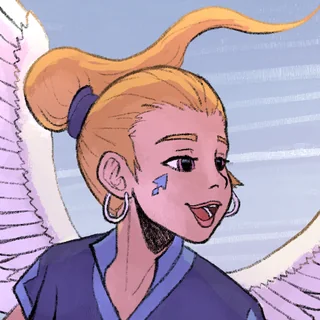
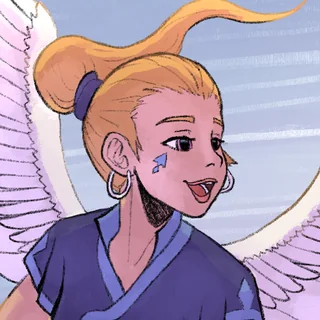
Pieces that fill their square, and travel to the next one
Four small things, all about the board feeling like a board.

A card is 100% of its tile instead of 88%. The ring of tile showing
round every card made it read as pictures sitting on a grid rather
than a grid made of pictures.

A card that changes square now travels there. Changing grid cell is
instant and unreadable, so the board measures where every unit was
before the render and where it is after, puts each one back where it
started and lets it fly -- ease-out only, because a piece that starts
fast and settles reads as a move while one that starts slow reads as
a drag. An exchange already owns the element's transform mid-animation,
so a slot that is lunging or recoiling is left alone.

The card beside the board leans by exactly the angles the little card
under the pointer does. The two angles are written to the arena as
well as to the card, straight to the DOM rather than through state --
this fires on every mouse move and re-rendering the board sixty times
a second to tilt a card is not a trade worth making.

And placing a unit during deployment now ends the placing. Leaving it
selected left your whole half lit up as though you still had something
in your hand, which stops being true the moment you put it down.

Also here: Jared's own crops for Himanta and Lumea, which frame both
of them better than the ones I cut.

Claude-Session: https://claude.ai/code/session_0193MWujxsDaLYrBaynm9KZG

diff --git a/src/components/Board.tsx b/src/components/Board.tsx
@@ -1,4 +1,4 @@
-import { useEffect, useMemo, useRef, useState } from 'react'
+import { useEffect, useLayoutEffect, useMemo, useRef, useState } from 'react'
 import type { MatchState, Obstacle, Side, Unit } from '../lib/types'
 import { artUrl, faceUrl } from '../lib/art'
 import { deployTiles, key, ownSide, reachable, targetsFor, willCounter } from '../lib/rules'
@@ -57,6 +57,34 @@ export function Board({
   const at = (p: { x: number; y: number }) =>
     ({ gridColumn: p.x + 1, gridRow: p.y + 1 }) as React.CSSProperties
 
+  // Where every unit was standing last time we drew. A card changes square by
+  // changing which grid cell it is in, which is instant and unreadable, so we
+  // measure before and after and play the difference back: put the card where
+  // it used to be, then let it travel. Ease-out only -- a piece that starts
+  // fast and settles reads as a move, one that starts slow reads as a drag.
+  const seats = useRef(new Map<string, DOMRect>())
+  const slots = useRef(new Map<string, HTMLDivElement>())
+  useLayoutEffect(() => {
+    for (const [id, el] of slots.current) {
+      const to = el.getBoundingClientRect()
+      const from = seats.current.get(id)
+      seats.current.set(id, to)
+      if (!from) continue
+      const dx = from.left - to.left
+      const dy = from.top - to.top
+      if (Math.abs(dx) < 0.5 && Math.abs(dy) < 0.5) continue
+      // An exchange already owns this element's transform; do not fight it.
+      if (el.className.includes('fx-')) continue
+      el.animate(
+        [{ transform: `translate(${dx}px, ${dy}px)` }, { transform: 'translate(0px, 0px)' }],
+        { duration: 260, easing: 'cubic-bezier(0.22, 1, 0.36, 1)' },
+      )
+    }
+    for (const id of [...seats.current.keys()]) {
+      if (!slots.current.has(id)) seats.current.delete(id)
+    }
+  })
+
   // The board a moment ago. A killed unit is gone from `state.units` by the
   // time we hear about it, so the only place its last position still exists
   // is the previous render's copy.
@@ -114,7 +142,10 @@ export function Board({
   function clickTile(x: number, y: number) {
     if (watching(mySide)) return
     if (deploying) {
-      if (selected && mine && litTiles.has(key(x, y))) onDeploy(selected.id, x, y)
+      // Placing one ends the placing. Leaving the unit selected left its whole
+      // half lit up as if you still had something in your hand, which is only
+      // true until you put it down.
+      if (selected && mine && litTiles.has(key(x, y))) { onDeploy(selected.id, x, y); onSelect(null) }
       else onSelect(null)
       return
     }
@@ -126,8 +157,10 @@ export function Board({
     if (watching(mySide)) return
     if (deploying) {
       // Dropping one of yours onto another of yours swaps the pair.
-      if (selected && mine && u.owner === mySide && u.id !== selected.id) onDeploy(selected.id, u.x, u.y)
-      else onSelect(u.id === selectedId ? null : u.id)
+      if (selected && mine && u.owner === mySide && u.id !== selected.id) {
+        onDeploy(selected.id, u.x, u.y)
+        onSelect(null)
+      } else onSelect(u.id === selectedId ? null : u.id)
       return
     }
     if (targets.has(u.id)) onAttack(u.id)
@@ -223,6 +256,7 @@ export function Board({
                   : undefined
             }
             onHover={(over) => onHover(over ? u.id : null)}
+            slotRef={(el) => { if (el) slots.current.set(u.id, el); else slots.current.delete(u.id) }}
             onClick={(e) => { e.stopPropagation(); clickUnit(u) }}
           />
         )
@@ -328,6 +362,7 @@ function GhostCard({ unit }: { unit: Unit }) {
 
 function UnitCard({
   unit, slot, yours, watching, selected, target, counters, slotClass, slotVars, onClick, onHover,
+  slotRef,
 }: {
   unit: Unit
   slot: React.CSSProperties
@@ -340,22 +375,36 @@ function UnitCard({
   slotVars?: React.CSSProperties
   onClick: (e: React.MouseEvent) => void
   onHover: (over: boolean) => void
+  slotRef: (el: HTMLDivElement | null) => void
 }) {
   const hpPct = Math.max(0, Math.min(100, (unit.hp / unit.maxHp) * 100))
 
   // The card leans toward the pointer. The angles go to CSS variables rather
   // than straight to `transform`, so the lean composes with the hover scale
   // instead of overwriting it.
+  // The same two angles go on the card under the pointer and on the arena, so
+  // the big card opening beside the board leans by exactly as much as the
+  // little one you are pointing at. Written straight to the DOM rather than
+  // held in state: this fires on every mouse move, and re-rendering the board
+  // sixty times a second to tilt a card is not a trade worth making.
   function lean(e: React.MouseEvent<HTMLDivElement>) {
     const r = e.currentTarget.getBoundingClientRect()
     const px = (e.clientX - r.left) / r.width - 0.5
     const py = (e.clientY - r.top) / r.height - 0.5
-    e.currentTarget.style.setProperty('--ry', `${(px * MAX_TILT * 2).toFixed(1)}deg`)
-    e.currentTarget.style.setProperty('--rx', `${(-py * MAX_TILT * 2).toFixed(1)}deg`)
+    const ry = `${(px * MAX_TILT * 2).toFixed(1)}deg`
+    const rx = `${(-py * MAX_TILT * 2).toFixed(1)}deg`
+    e.currentTarget.style.setProperty('--ry', ry)
+    e.currentTarget.style.setProperty('--rx', rx)
+    const arena = e.currentTarget.closest('.arena') as HTMLElement | null
+    arena?.style.setProperty('--bry', ry)
+    arena?.style.setProperty('--brx', rx)
   }
   function settle(e: React.MouseEvent<HTMLDivElement>) {
     e.currentTarget.style.setProperty('--ry', '0deg')
     e.currentTarget.style.setProperty('--rx', '0deg')
+    const arena = e.currentTarget.closest('.arena') as HTMLElement | null
+    arena?.style.setProperty('--bry', '0deg')
+    arena?.style.setProperty('--brx', '0deg')
   }
 
   const portrait = unit.art
@@ -363,7 +412,7 @@ function UnitCard({
     : <span className="unit-initial">{unit.name[0]}</span>
 
   return (
-    <div className={`unit-slot ${slotClass}`.trim()} style={{ ...slot, ...slotVars }}>
+    <div ref={slotRef} className={`unit-slot ${slotClass}`.trim()} style={{ ...slot, ...slotVars }}>
       <div
         className={[
           'unit',

diff --git a/src/styles.css b/src/styles.css
@@ -695,7 +695,7 @@ form .btn.primary { width: 100%; margin-top: 10px; }
    up, which a tree is not. */
 .tree {
   position: relative;
-  width: 88%; aspect-ratio: 1;
+  width: 100%; aspect-ratio: 1;
   container-type: inline-size;
   display: grid; place-items: center;
   border-radius: 8%;
@@ -752,9 +752,12 @@ form .btn.primary { width: 100%; margin-top: 10px; }
   .unit-slot:hover { z-index: 10; }
 }
 
+/* A piece owns its whole square. At 88% the tile showed as a ring around
+   every card, which made the board read as pictures sitting on a grid rather
+   than as a grid made of pictures. */
 .unit {
   position: relative;
-  width: 88%; aspect-ratio: 1;
+  width: 100%; aspect-ratio: 1;
   container-type: inline-size;  /* everything INSIDE is sized against this */
   display: grid;
   /* NOT cqw: an element cannot query itself, so cqw here would resolve
@@ -877,9 +880,12 @@ form .btn.primary { width: 100%; margin-top: 10px; }
   box-shadow: 0 22px 56px rgba(14, 14, 20, 0.30);
   z-index: 20; pointer-events: none;
   display: flex; flex-direction: column; justify-content: space-between;
-  transform: translateY(-50%);
+  /* --brx and --bry are written on .arena by the board's lean handler, so
+     this card tilts by exactly the angles the card under the pointer does. */
+  transform: translateY(-50%) perspective(900px)
+             rotateX(var(--brx, 0deg)) rotateY(var(--bry, 0deg));
   animation: bc-in 0.15s ease-out;
-  transition: opacity 0.14s ease;
+  transition: transform 0.12s ease-out, opacity 0.14s ease;
 }
 .bigcard-left  { left: 0; }
 .bigcard-right { right: 0; }
